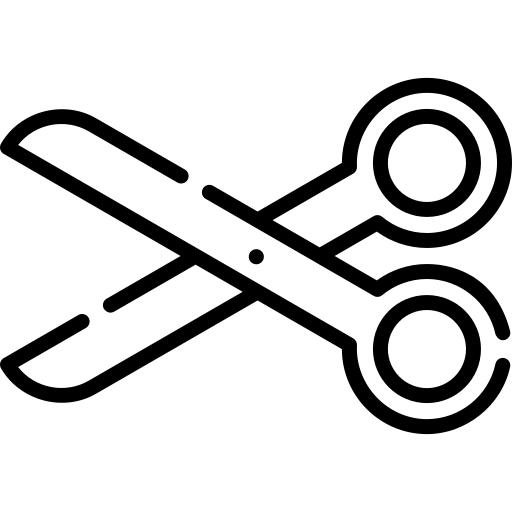
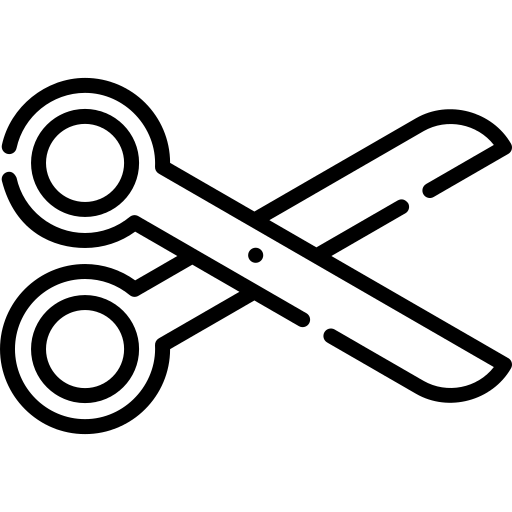
:dizzy: feat: Add transition to GUI elements

Changed region(s): [[0.0, 0.125, 1.0, 0.875], [0.5, 0.5, 0.5312, 0.5312], [0.4688, 0.4688, 0.5, 0.5]]

diff --git a/rock-paper-scissors/script.js b/rock-paper-scissors/script.js
@@ -74,6 +74,41 @@ function setWinnerBox(active){
     else gameWinnerBox.style.visibility = 'hidden';
 }
 
+function displayRestartModal(){
+    if (playerScore == 5 || computerScore == 5){
+        setWinnerBox(true);
+        gameWinnerBox.textContent = `========= ${checkFinalWinner(playerScore, computerScore)} =========`;
+        finalResultModal.classList.add('active');
+        overlay.classList.add('active');
+    }
+}
+
+function displayGameInfos(playerSelection, computerSelection){
+    matchResult.textContent = '--------';
+    playerMoveDiv.innerHTML = `<img class="${playerSelection}-img" src="media/${playerSelection}.png" alt="${playerSelection}-image">`;
+    computerMoveDiv.innerHTML = `<img class="${computerSelection}-img" src="media/${computerSelection}.png" alt="${computerSelection}-image">`;
+
+    setTimeout(() => {
+        playerMoveDiv.querySelector('img').style.opacity = 1;
+        playerMoveDiv.addEventListener('transitionend', () => {
+            computerMoveDiv.querySelector('img').style.opacity = 1
+
+            computerMoveDiv.addEventListener('transitionend', () => {
+                matchResult.textContent = playRound(playerSelection, computerSelection);
+                playerScoreBox.textContent = playerScore;
+                computerScoreBox.textContent = computerScore;
+
+                choicesBtn.forEach(choice => {
+                    choice.disabled = false;
+                    choice.setAttribute('style', 'pointer-events: all;')
+                });
+
+                displayRestartModal();
+            })
+        });
+    }, 300);
+}
+
 function game(e){
     let playerSelection = '';
     if (e.target.id == 'rock-btn') playerSelection = 'rock';
@@ -87,20 +122,12 @@ function game(e){
     if (roundWinner == 1) playerScore++;
     else if (roundWinner == -1) computerScore++;
 
-    playerMoveDiv.innerHTML = `<img class="${playerSelection}-img" src="media/${playerSelection}.png" alt="${playerSelection}-image">`;
-    computerMoveDiv.innerHTML = `<img class="${computerSelection}-img" src="media/${computerSelection}.png" alt="${computerSelection}-image">`;
+    choicesBtn.forEach(choice => {
+        choice.disabled = false;
+        choice.setAttribute('style', 'pointer-events: none;')
+    });
 
-    matchResult.textContent = playRound(playerSelection, computerSelection);
-    playerScoreBox.textContent = playerScore;
-    computerScoreBox.textContent = computerScore;
-    
-    if (playerScore == 5 || computerScore == 5){
-        setWinnerBox(true);
-        gameWinnerBox.textContent = `========= ${checkFinalWinner(playerScore, computerScore)} =========`;
-        finalResultModal.classList.add('active');
-        overlay.classList.add('active');
-
-    }
+    displayGameInfos(playerSelection, computerSelection);
 }
 
 

diff --git a/rock-paper-scissors/style.css b/rock-paper-scissors/style.css
@@ -45,11 +45,16 @@ section{
 
     border: solid 5px rgb(238, 238, 238);
     margin-top: 5px;
+
 }
 
 .move img{
+    opacity: 0;
+
     width: 50px;
     height: auto;
+
+    transition: .7s ease-in-out;
 }
 
 .game-result{
@@ -98,10 +103,12 @@ section{
     height: auto;
 
     pointer-events: none;
+
+    transition: 0.5s;
 }
 
-.scissors-img{
-    transform: rotate(180deg);
+.player-choice:hover img{
+    transform: scale(1.15);
 }
 
 .final-result-modal{

diff --git a/rock-paper-scissors/index.html b/rock-paper-scissors/index.html
@@ -29,7 +29,7 @@
             <div class="game-result">
                 <div class="match-result">--------</div>
                 <div class="score-content">
-                    <div class="player-score">Player score: <span>0</span></div>
+                    <div class="player-score">Player Score: <span>0</span></div>
                     <div class="computer-score">Computer Score: <span>0</span></div>
                 </div>
             </div>
